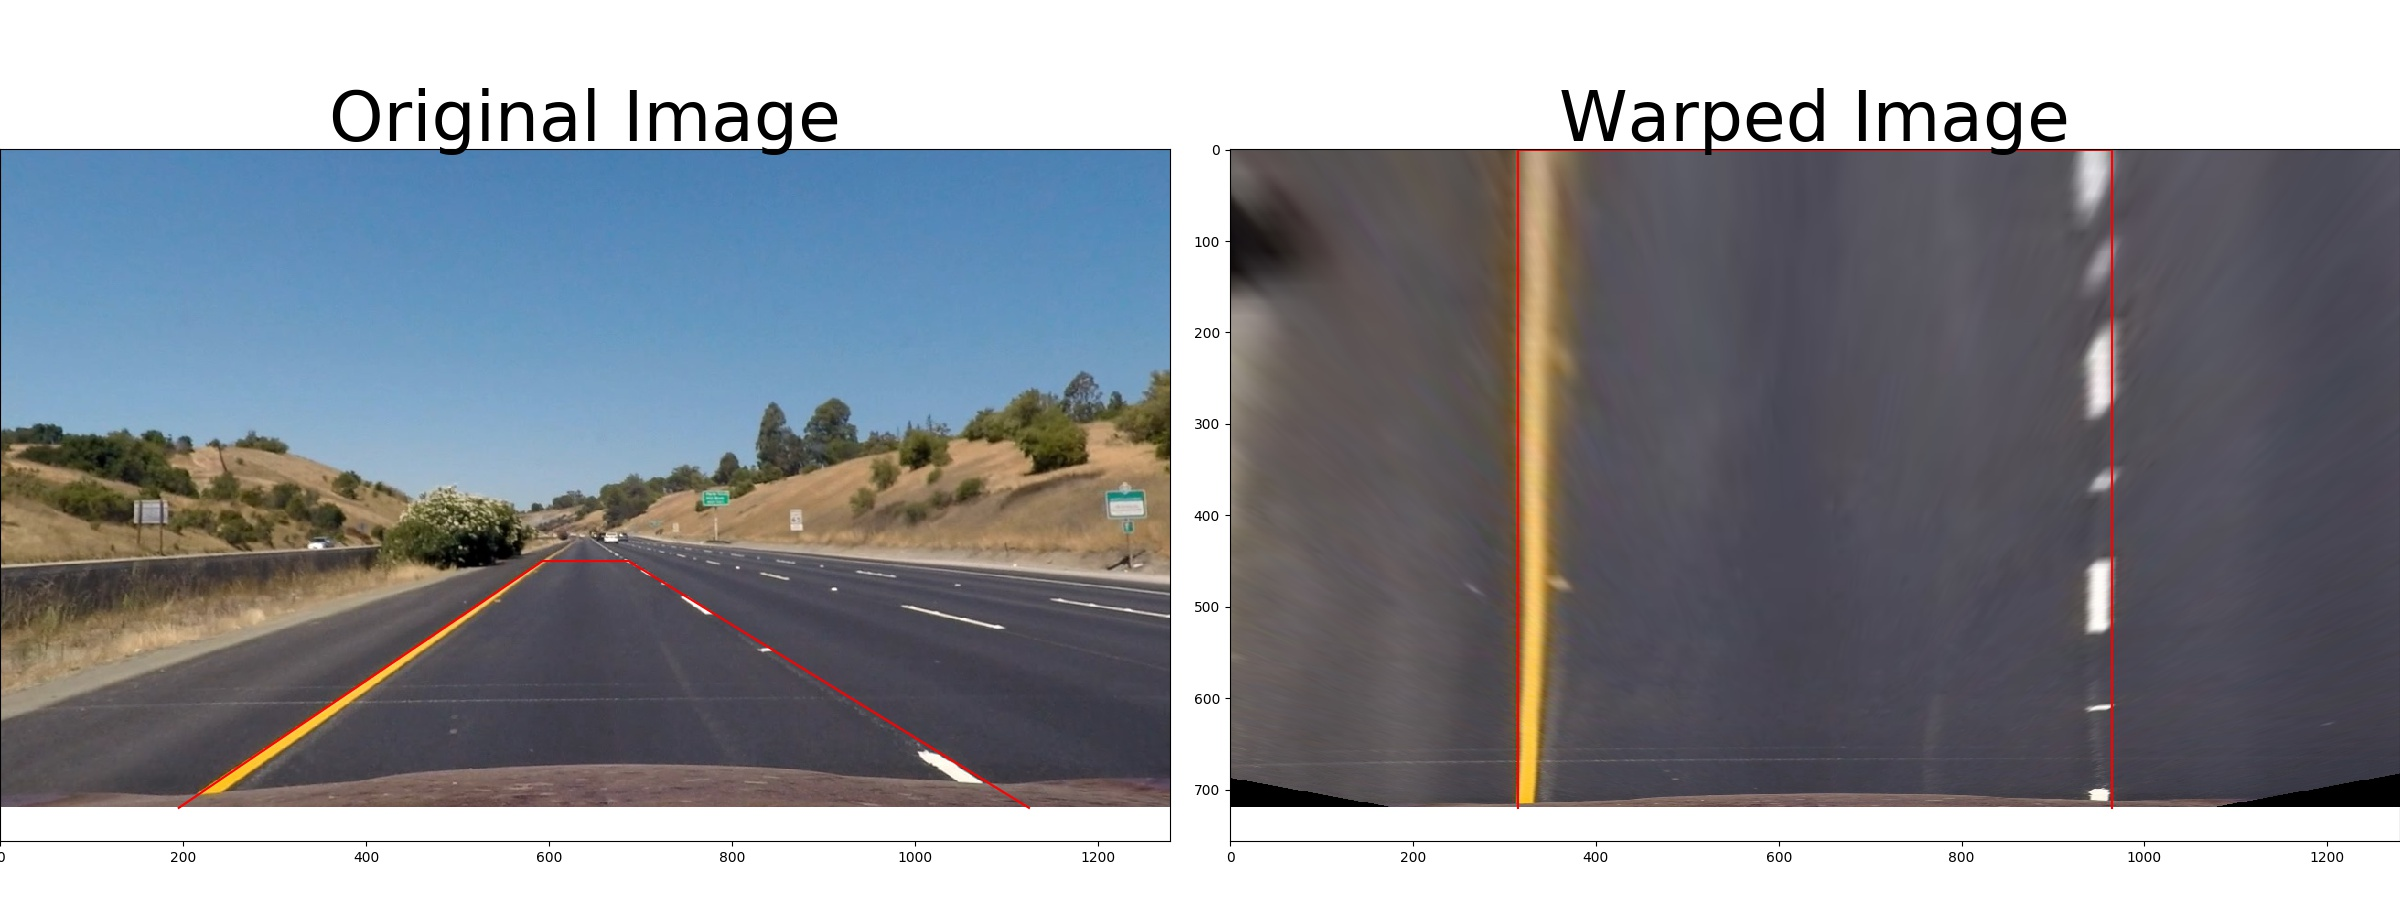
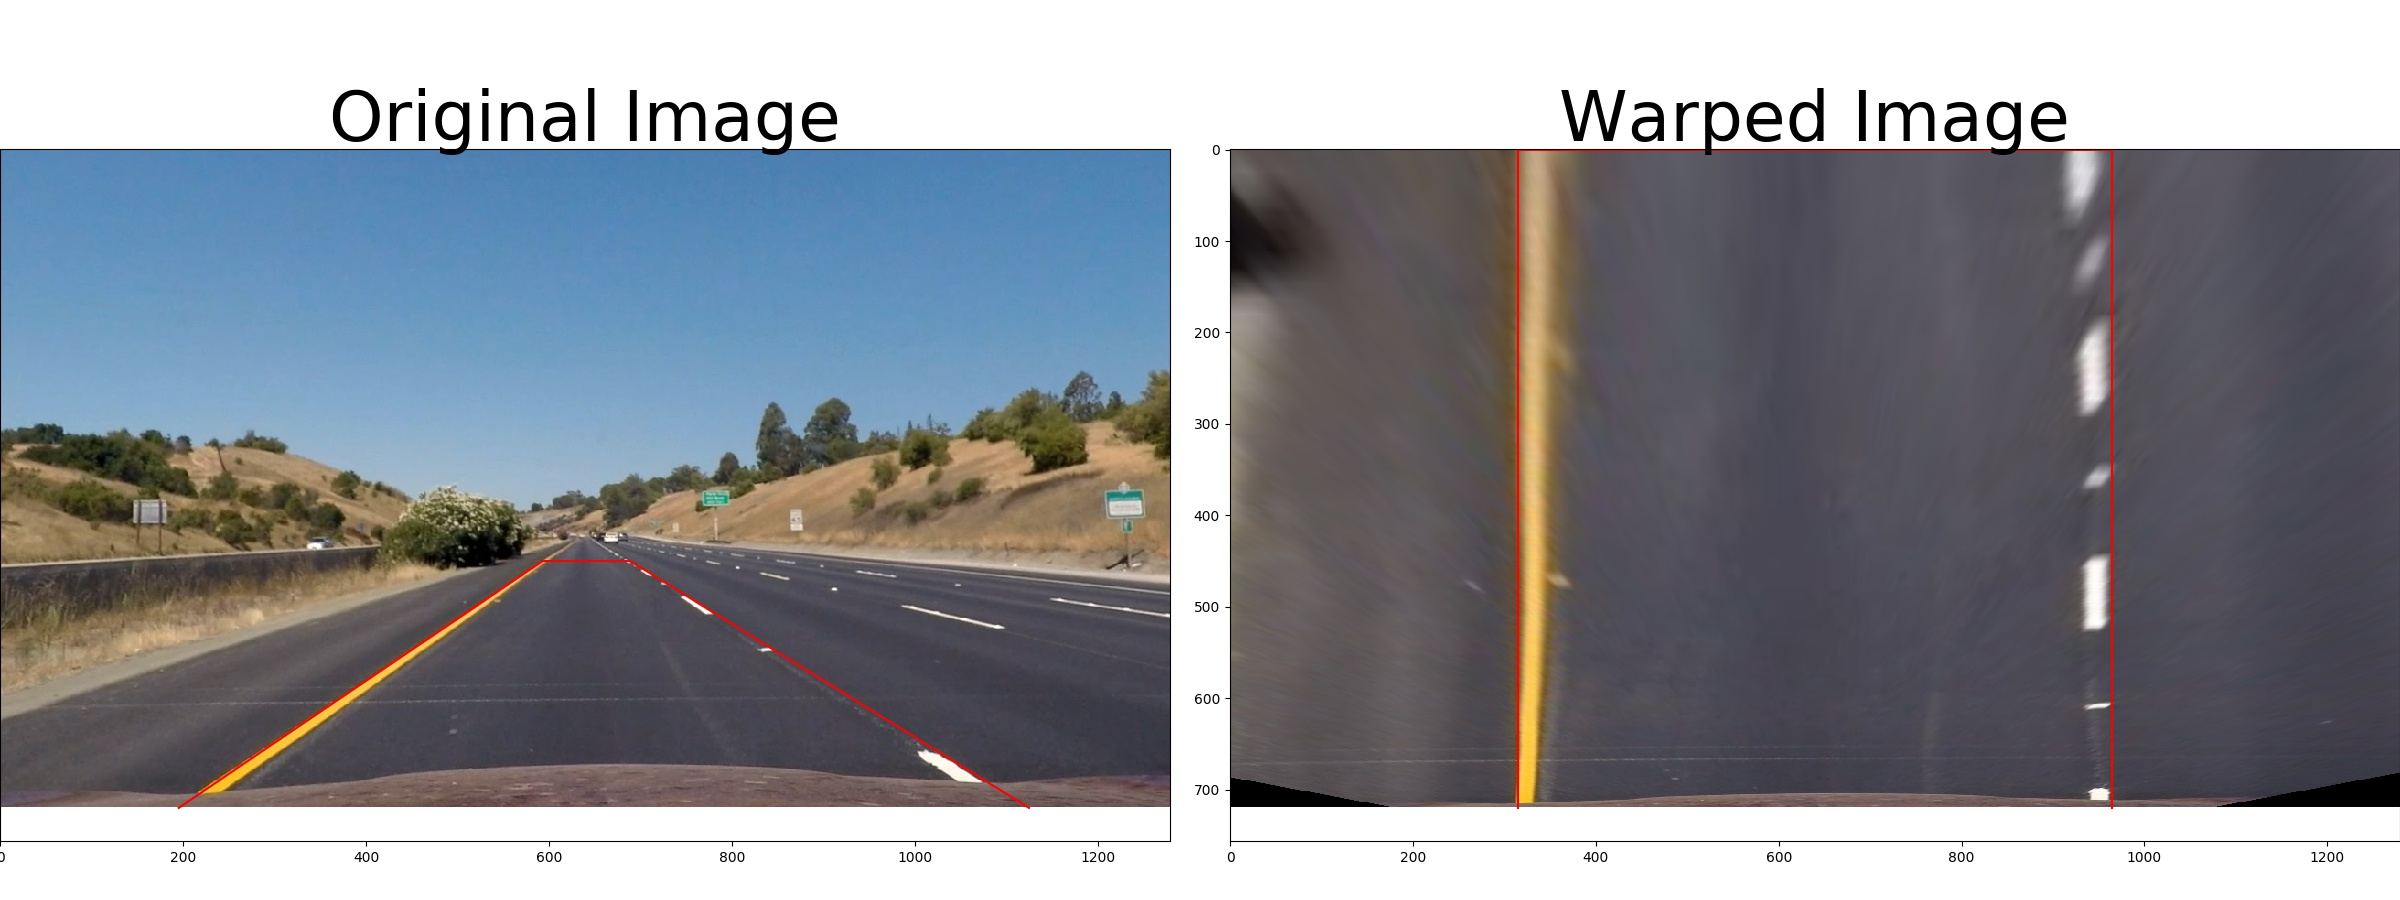
refactored, added  transform_perspective.py

diff --git a/line_finder/generate_perspective_matrix.py b/line_finder/generate_perspective_matrix.py
@@ -1,0 +1,65 @@
+import cv2
+import numpy as np
+import matplotlib.pyplot as plt
+import config as cfg
+from camera_calibration.undistort_image import Undistort
+import pickle
+from line_finder.transform_perspective import TransformPerspective
+
+
+def generate_matrix(src, dst):
+    """
+    generate perspective matrix and inverse perspective matrix
+    :param src: source vertices
+    :param dst: destine vertices, coordinates of source vertices on transformed img
+    :return: perspective matrix and inverse perspective matrix
+    """
+    M = cv2.getPerspectiveTransform(src, dst)
+    Minv = cv2.getPerspectiveTransform(dst, src)
+    return M, Minv
+
+
+def main():
+    perspective_matrix_path = cfg.line_finder['perspective_matrix_file']
+
+    height = 720
+    src = np.float32([[195, height], [593, 450], [689, 450], [1125, height]])
+    dst = np.float32([[315, height], [315, 0], [965, 0], [965, height]])
+    M, Minv = generate_matrix(src, dst)
+    dict_pickle = dict()
+    dict_pickle['M'] = M
+    dict_pickle['Minv'] = Minv
+    pickle.dump(dict_pickle, open(perspective_matrix_path, "wb"))
+
+    transformer = TransformPerspective()
+
+    image_name = 'straight_lines1'
+
+    image_path = cfg.join_path(cfg.line_finder['input'], image_name + '.jpg')
+    warped_img_path = cfg.join_path(cfg.line_finder['output'], image_name + '_warped.jpg')
+    warped_unwarped_path = cfg.join_path(cfg.line_finder['output'], image_name + '_warped_unwarped.jpg')
+
+    img = cv2.cvtColor(cv2.imread(image_path), cv2.COLOR_BGR2RGB)
+    undistort = Undistort()
+    img = undistort.undistort_image(img)
+
+    warped_img = transformer.transform(img)
+
+    f, (ax1, ax2) = plt.subplots(1, 2, figsize=(24, 9))
+    f.tight_layout()
+    ax1.imshow(img)
+    ax1.plot(src[:, 0], src[:, 1], '-r')
+    ax1.set_title('Original Image', fontsize=50)
+
+    ax2.imshow(warped_img)
+    ax2.plot(dst[:, 0], dst[:, 1], '-r')
+    ax2.set_title('Warped Image', fontsize=50)
+    plt.subplots_adjust(left=0., right=1, top=0.9, bottom=0.)
+    plt.savefig(warped_img_path)
+
+    warped_unwarped_img = transformer.inverse_transform(warped_img)
+    warped_unwarped_img = cv2.cvtColor(warped_unwarped_img, cv2.COLOR_BGR2RGB)
+    cv2.imwrite(warped_unwarped_path, warped_unwarped_img)
+
+if __name__ == '__main__':
+    main()

diff --git a/camera_calibration/camera_calibration.py b/camera_calibration/camera_calibration.py
@@ -4,6 +4,7 @@ import numpy as np
 import glob
 import config as cfg
 
+
 def find_corners(image_paths, image_output_folder, row_number, col_number,
                  obj_points_filename=None, img_points_filename=None):
     """
@@ -55,24 +56,24 @@ def find_corners(image_paths, image_output_folder, row_number, col_number,
     return obj_points, img_points
 
 
-def camera_calibration(obj_points, img_points, img_size, pickle_filename=None):
+def camera_calibration(obj_points, img_points, img_size, camera_calibration_file=None):
     """
     calibrate camera, and save the calibration result in pickle file
     :param obj_points: object points
     :param img_points: image points
     :param img_size: image size
-    :param pickle_filename: pickle file name
+    :param camera_calibration_file: camera calibration file
     :return: camera matrix and distortion coefficient from calibration
     """
     # Do camera calibration given object points and image points
     ret, mtx, dist, rvecs, tvecs = cv2.calibrateCamera(obj_points, img_points, img_size, None, None)
 
     # Save the camera calibration result for later use (we won't worry about rvecs / tvecs)
-    if pickle_filename:
+    if camera_calibration_file:
         dist_pickle = dict()
         dist_pickle["mtx"] = mtx
         dist_pickle["dist"] = dist
-        pickle.dump(dist_pickle, open(pickle_filename, "wb"))
+        pickle.dump(dist_pickle, open(camera_calibration_file, "wb"))
     return [mtx, dist]
 
 
@@ -92,7 +93,7 @@ def main():
         img = cv2.imread(image_path)
         img_size = (img.shape[1], img.shape[0])
 
-        camera_calibration(obj_points, img_points, img_size, cfg.camera_calibration['pickle_filename'])
+        camera_calibration(obj_points, img_points, img_size, cfg.camera_calibration['camera_calibration_file'])
 
 
 if __name__ == '__main__':

diff --git a/line_finder/thresholding.py b/line_finder/thresholding.py
@@ -266,20 +266,29 @@ def pipeline(img, to_plot=False):
         plot(color_binary, sobel_mag_binary, combine_binary_and(sobel_mag_binary, sobel_direct_binary),
              color_binary_stacked, combined_binary, combined_binary_masked, fig_title)
 
-    return combined_binary_masked
+
+    return combined_binary, combined_binary_masked
 
 
 if __name__ == '__main__':
-    image_name = 'test2'
+    image_name = 'test3'
     image_path = cfg.join_path(cfg.line_finder['input'], image_name + '.jpg')
     img = cv2.imread(image_path)
 
     undistort = Undistort()
     img = undistort.undistort_image(img)
 
-    line_binary = pipeline(img, True)
+    combined_binary_path = cfg.join_path(cfg.line_finder['output'], image_name + '_threshold.jpg')
+    combined_binary_mask_path = cfg.join_path(cfg.line_finder['output'], image_name + '_threshold_masked.jpg')
+    img_line_path = cfg.join_path(cfg.line_finder['output'], image_name + '_threshold_lane.jpg')
 
-    line = np.dstack((line_binary * 255, np.zeros_like(line_binary), np.zeros_like(line_binary)))
+    combined_binary, combined_binary_masked = pipeline(img, False)
+
+    line = np.dstack((combined_binary_masked * 255, np.zeros_like(combined_binary_masked), np.zeros_like(combined_binary_masked)))
     img = cv2.cvtColor(img, cv2.COLOR_BGR2RGB)
     img_line = cv2.addWeighted(img, 1, line, 1, 0)
-    #todo: plot img_line
+    img_line = cv2.cvtColor(img_line, cv2.COLOR_BGR2RGB)
+
+    cv2.imwrite(combined_binary_path, combined_binary * 255)
+    cv2.imwrite(combined_binary_mask_path, combined_binary_masked * 255)
+    cv2.imwrite(img_line_path, img_line)

diff --git a/line_finder/transform_perspective.py b/line_finder/transform_perspective.py
@@ -1,0 +1,38 @@
+import pickle
+import config as cfg
+import cv2
+
+
+class TransformPerspective:
+    """
+    Provide functinality to transform perspective images taken by car camera
+    """
+    def __init__(self):
+        perspective_matrix_path = cfg.line_finder['perspective_matrix_file']
+
+        try:
+            dict_pickle = pickle.load(open(perspective_matrix_path, "rb"))
+            self.perspective_matrix = dict_pickle['M']
+            self.perspective_matrix_inv = dict_pickle['Minv']
+        except Exception:
+            self.perspective_matrix = None
+
+    def transform(self, img):
+        """
+        transform image
+        :param img: input image
+        :return: transformed image
+        """
+        img_size = (img.shape[1], img.shape[0])
+        transformed = cv2.warpPerspective(img, self.perspective_matrix, img_size, flags=cv2.INTER_LINEAR)
+        return transformed
+
+    def inverse_transform(self, img):
+        """
+        transform image back
+        :param img: input - transformed image
+        :return: inverse transformed image
+        """
+        img_size = (img.shape[1], img.shape[0])
+        untransformed = cv2.warpPerspective(img, self.perspective_matrix_inv, img_size, flags=cv2.INTER_LINEAR)
+        return untransformed

diff --git a/config.py b/config.py
@@ -23,12 +23,13 @@ camera_calibration = {
     'output':  create_if_not_exist(join_path(base_dir, 'resources', 'images', 'camera_cal_corners')),
     'grid_rows': 6,
     'grid_columns': 9,
-    'pickle_filename': return_if_exist(join_path(base_dir, 'camera_calibration', 'wide_dist_pickle.p'))
+    'camera_calibration_file': join_path(base_dir, 'camera_calibration', 'camera_data.p')
 }
 
 line_finder = {
     'input': return_if_exist(join_path(base_dir, 'resources', 'images', 'test_images')),
-    'output': create_if_not_exist(join_path(base_dir, 'resources', 'images', 'output_images'))
+    'output': create_if_not_exist(join_path(base_dir, 'resources', 'images', 'output_images')),
+    'perspective_matrix_file': join_path(base_dir, 'line_finder', 'warp_matrix.p')
 }
 
 video_path = {

diff --git a/camera_calibration/undistort_image.py b/camera_calibration/undistort_image.py
@@ -12,7 +12,7 @@ class Undistort:
         """
         initiation, read camera matrix and distort coefficient from disk
         """
-        camera_pickle_path = cfg.camera_calibration['pickle_filename']
+        camera_pickle_path = cfg.camera_calibration['camera_calibration_file']
 
         try:
             dist_pickle = pickle.load(open(camera_pickle_path, "rb"))
@@ -59,7 +59,7 @@ class Undistort:
 def main():
     undistort = Undistort()
 
-    image_name = 'calibration10'
+    image_name = 'calibration1'
     image_path = cfg.join_path(cfg.camera_calibration['input'], image_name + '.jpg')
 
     img = cv2.imread(image_path)
